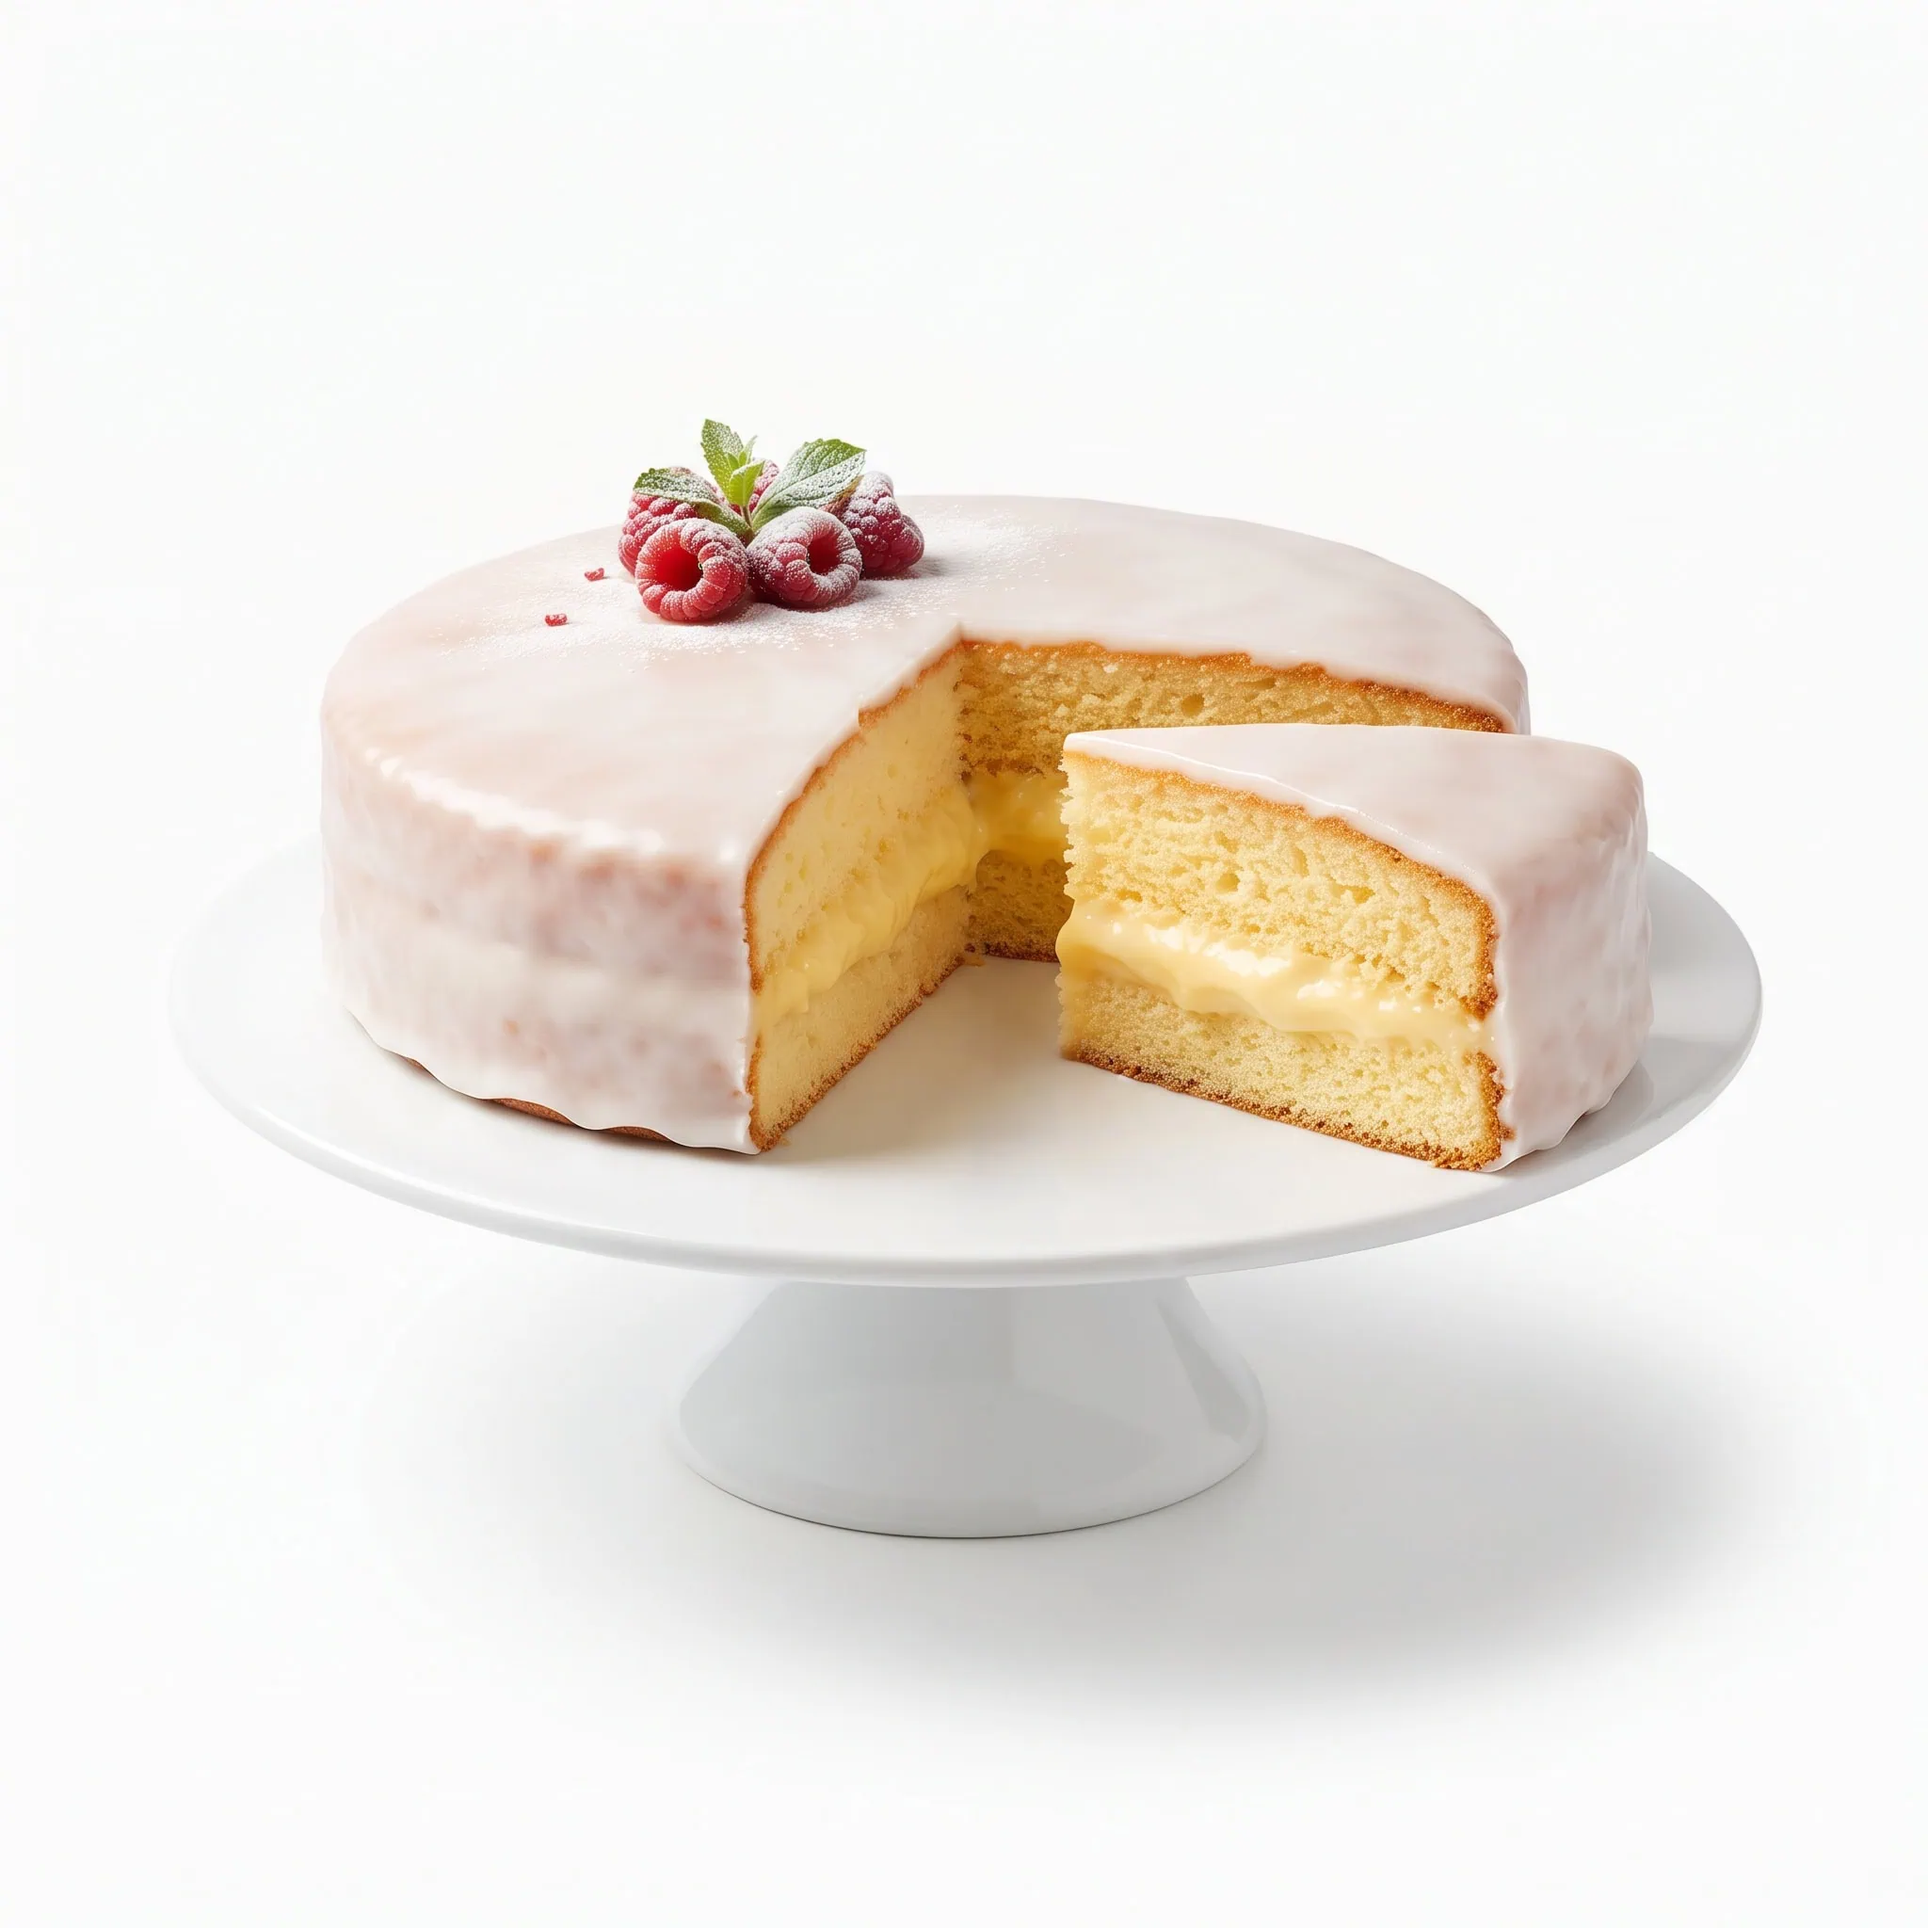
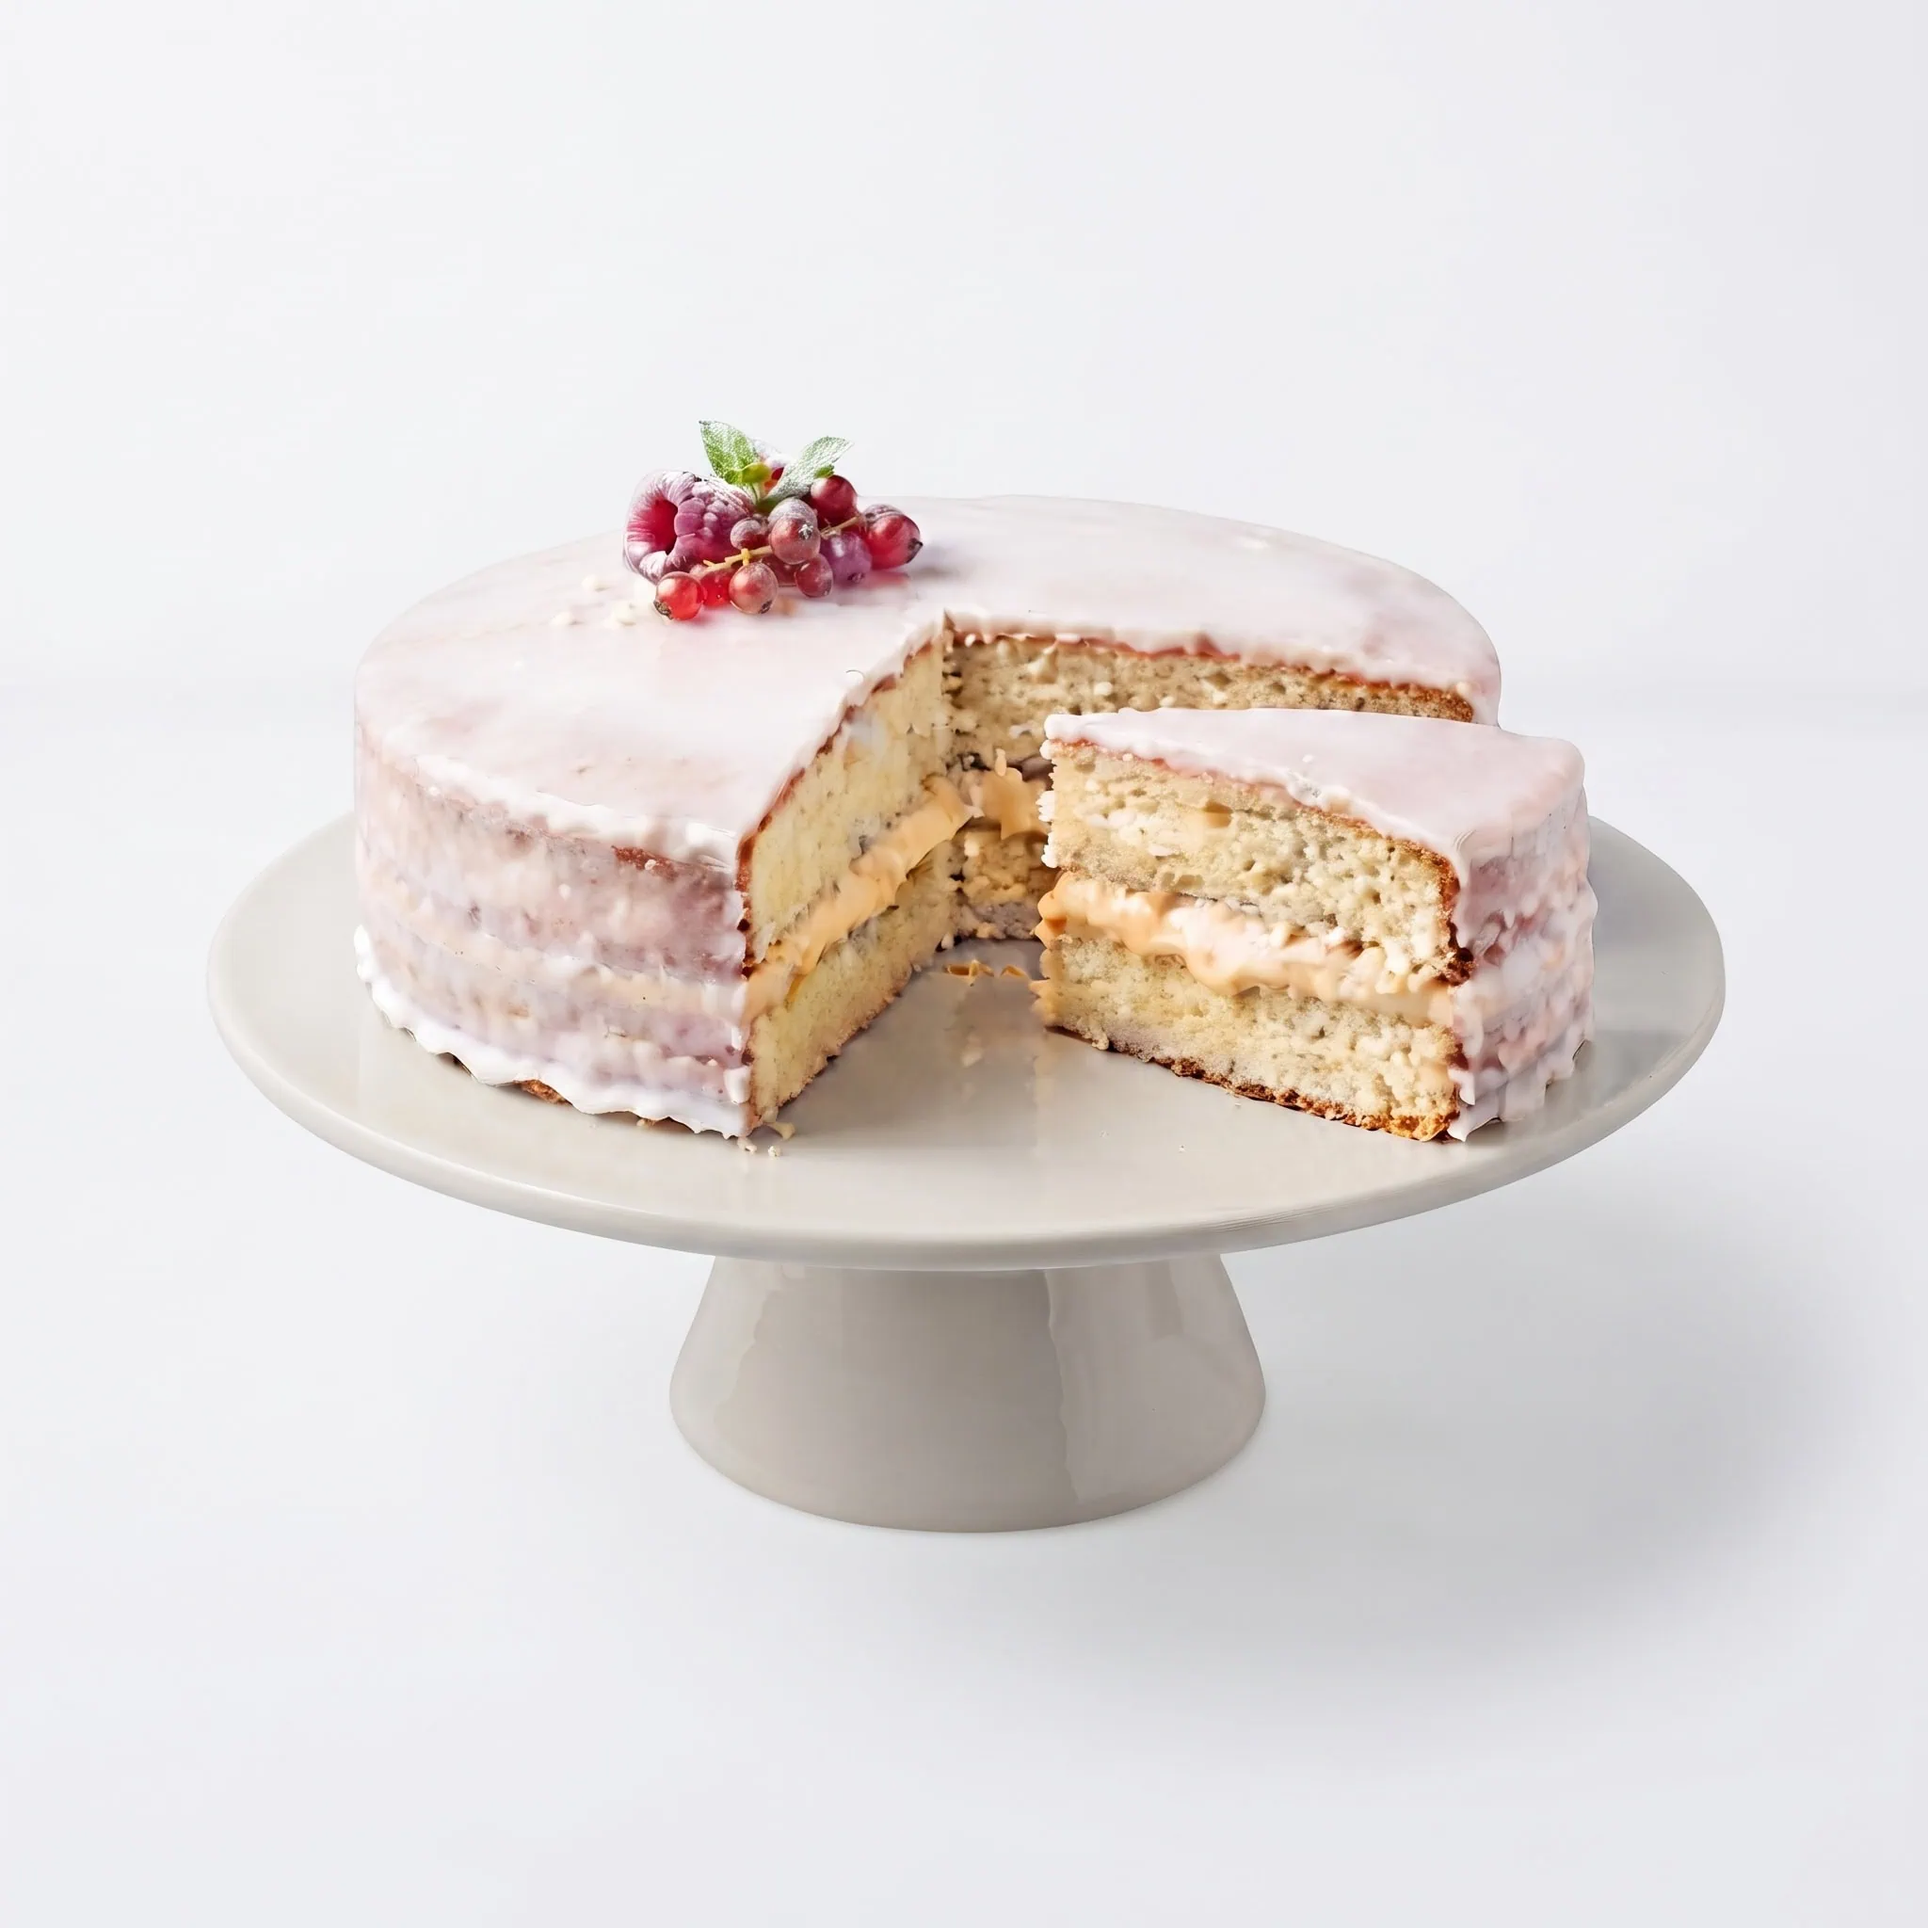
Actualiza imagen de la Torta Circular de Vainilla con el fondo correcto

Changed region(s): [[0.0938, 0.2188, 1.0, 0.875]]

diff --git a/tienda.html b/tienda.html
@@ -30,7 +30,7 @@
         }
         .tarjeta-producto img {
             width: 100%;
-            height: 180px;
+            height: 280px;
             object-fit: cover;
             border-radius: 4px;
         }
